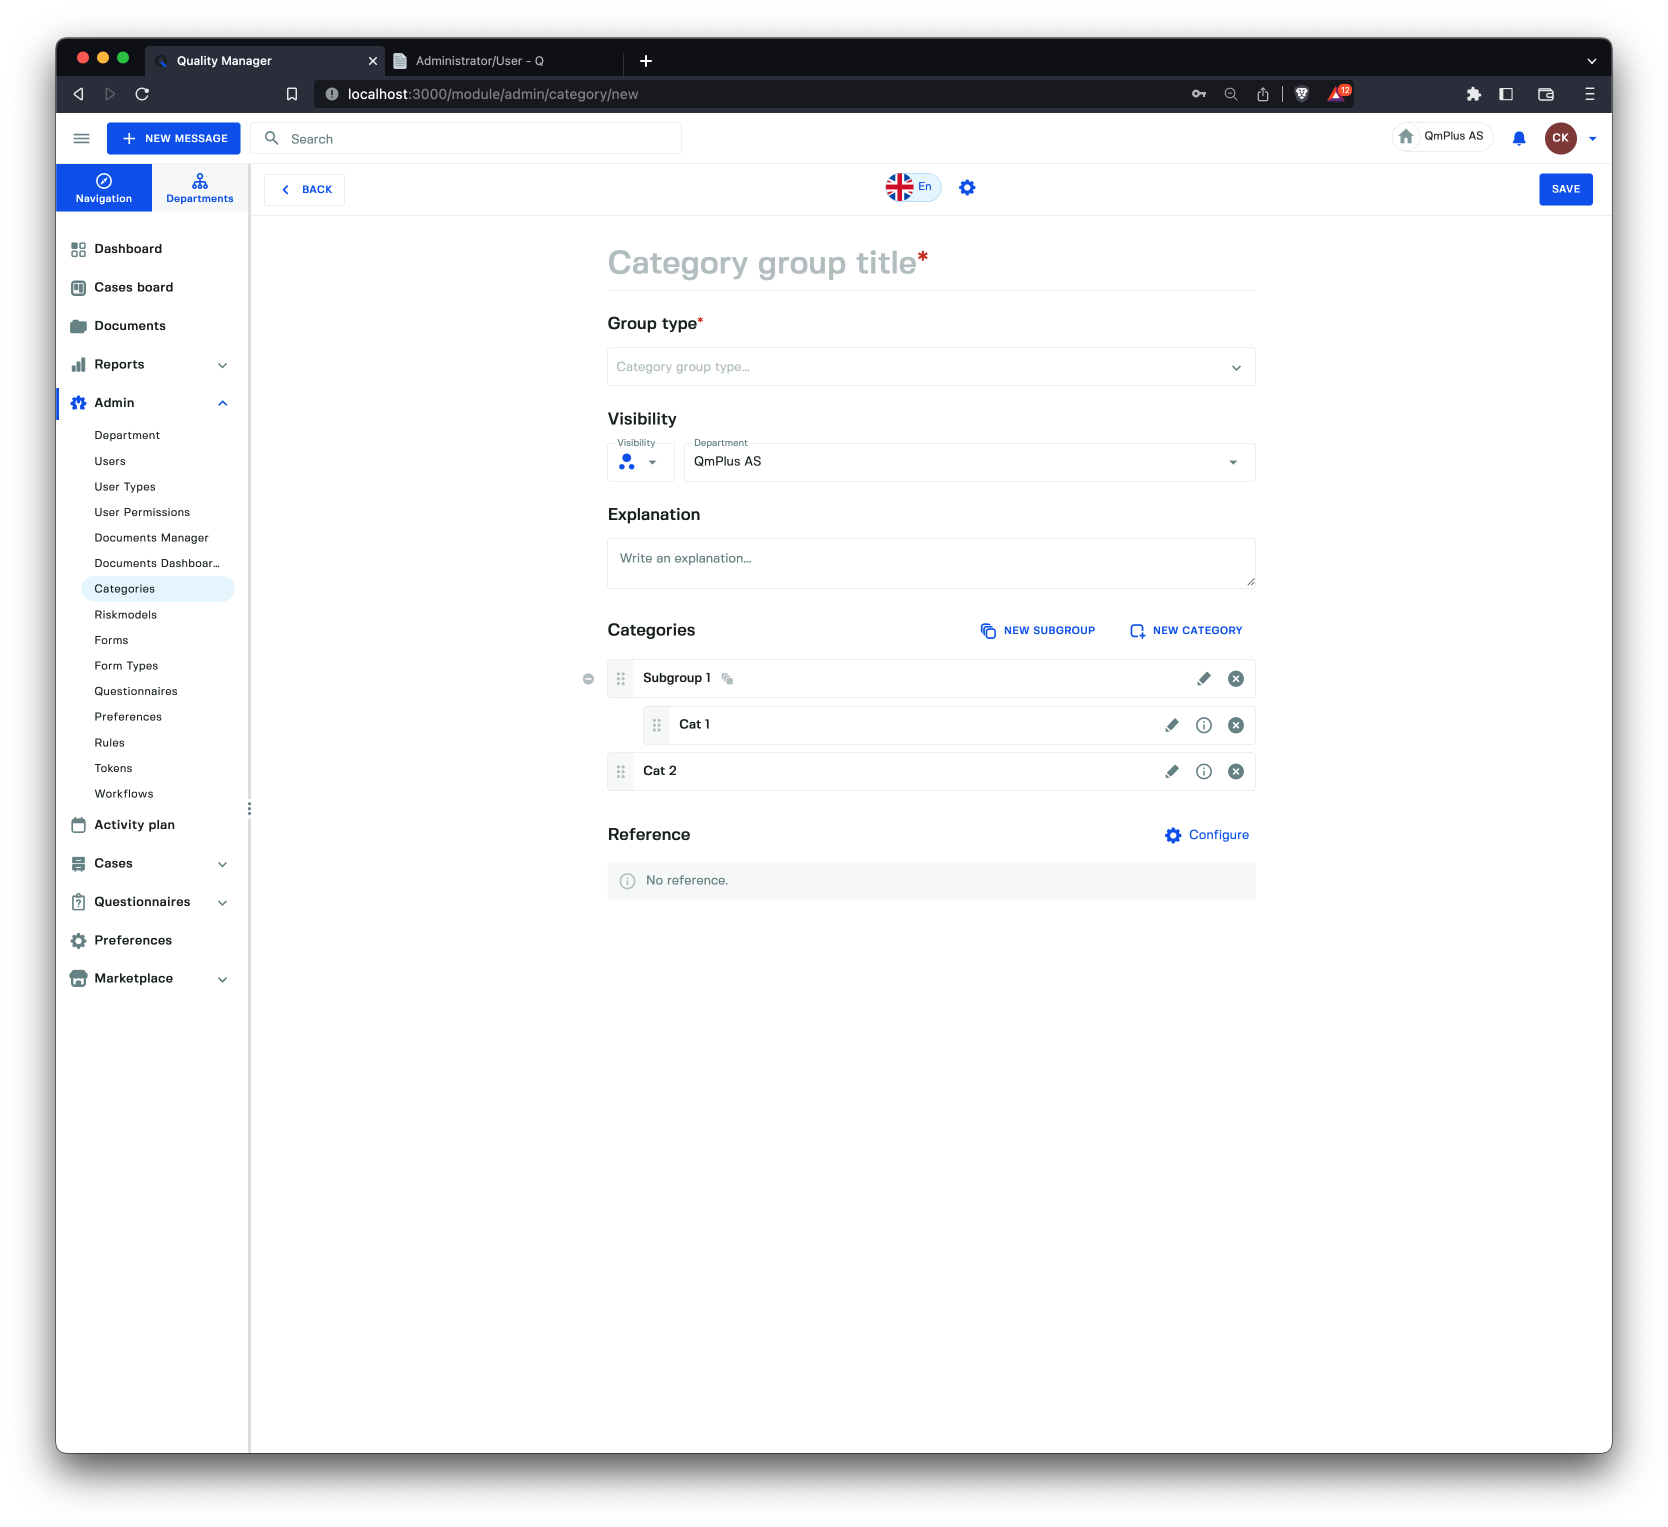
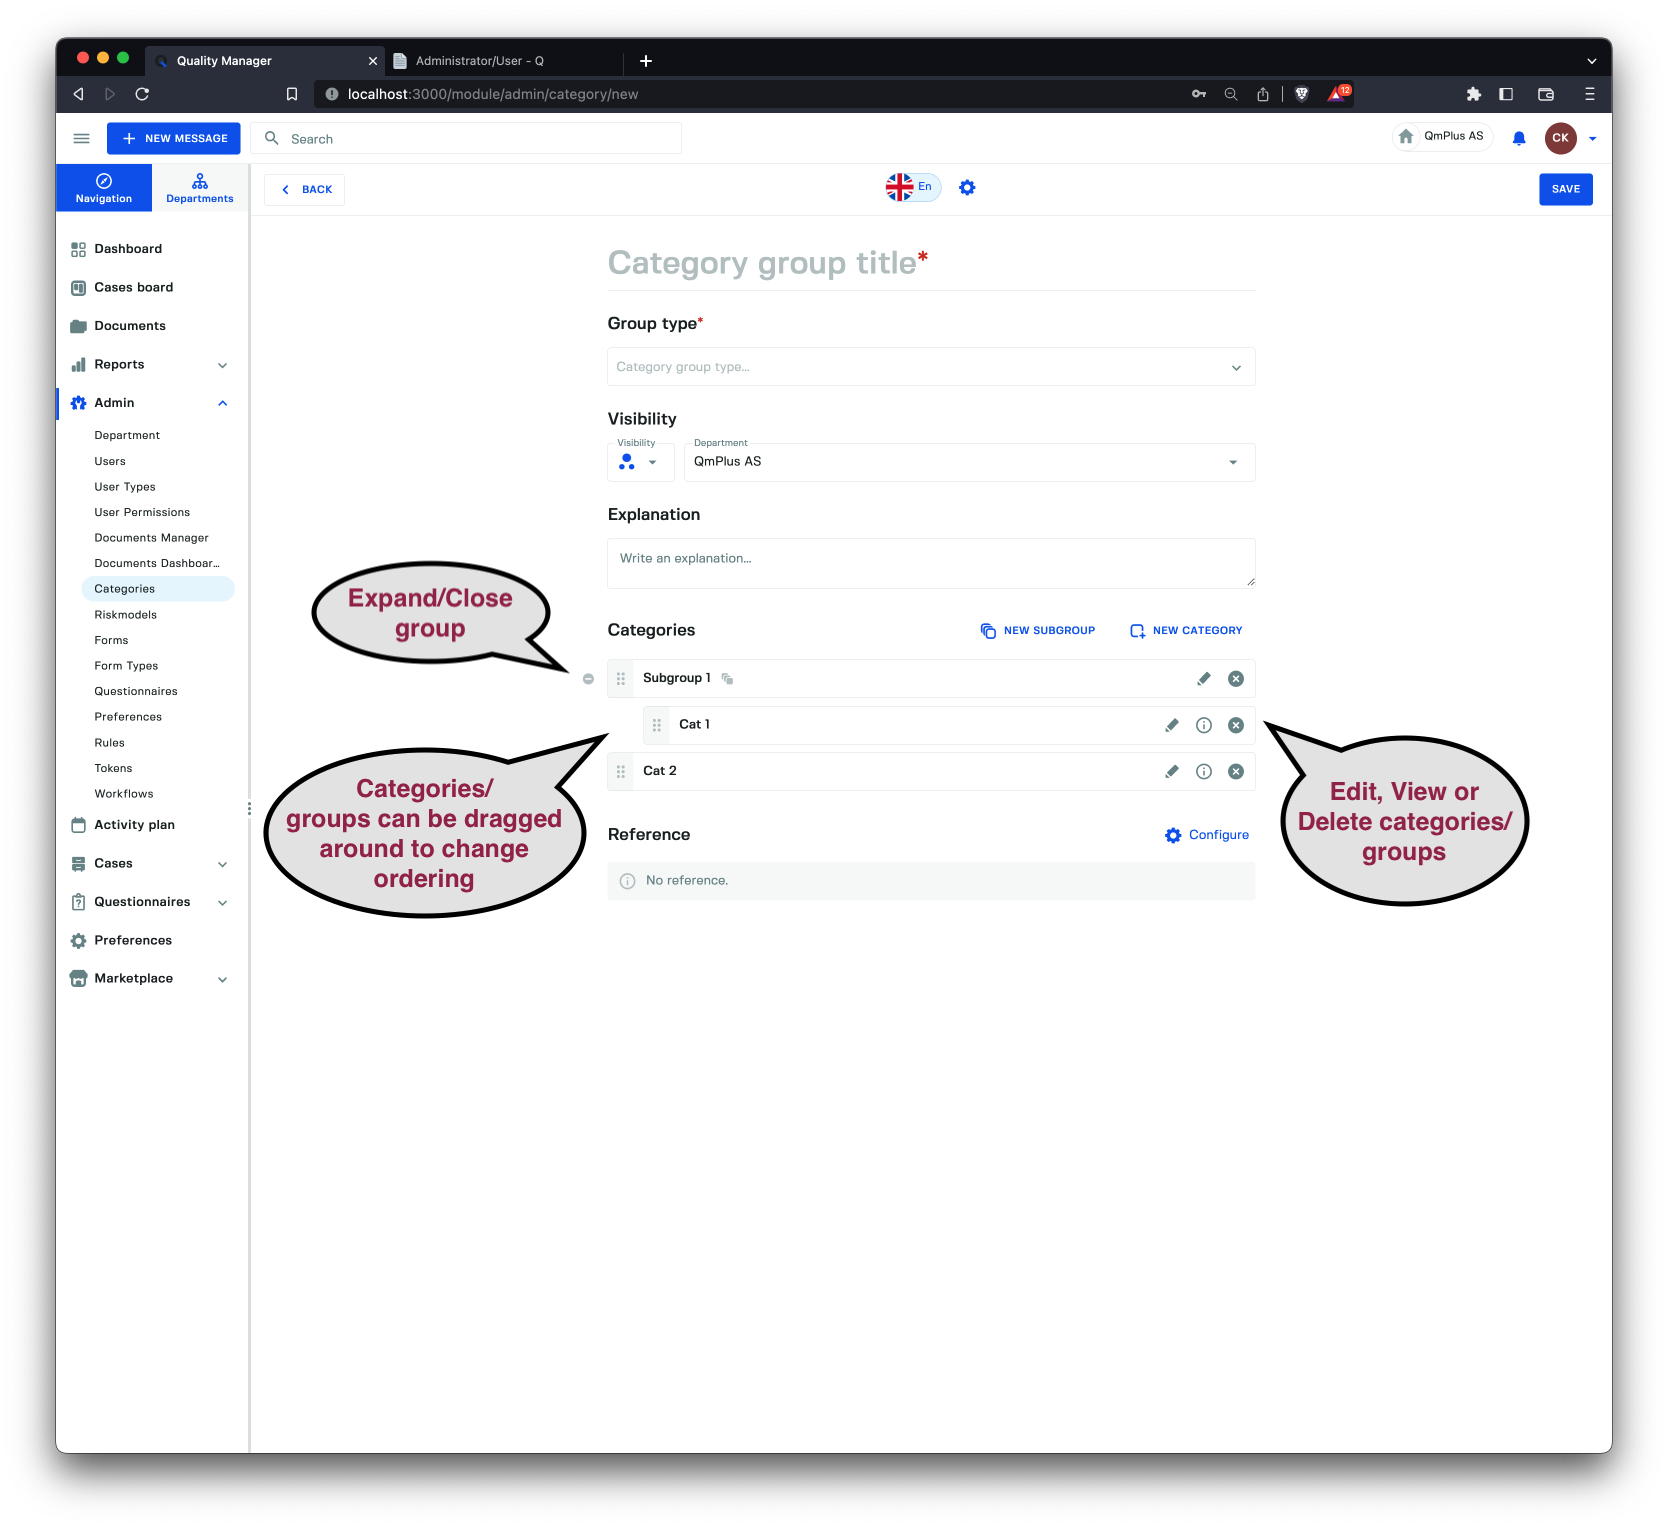
Working on category groups

Changed region(s): [[0.1559, 0.4617, 0.3741, 0.6156], [0.7482, 0.4617, 0.9353, 0.6156], [0.1871, 0.3694, 0.3429, 0.4617]]

diff --git a/content/en/docs/userguide/categories.md b/content/en/docs/userguide/categories.md
@@ -16,6 +16,12 @@ This section deals with managing category groups in the system.
 
 Clicking on the `Administrator/Categories` gives access to the list of category groups.
 
+A Category groups is made of a tree structure of `sub category groups` and `categories`. These elements can be re-organized in whatever order the user sees fit.
+
+> Category groups can be reused across multiple forms allowing you to generate statistics and reports across multiple types of form to compare.
+
+One of the important things to keep in mind is that all `Category Groups` are versioned. This lets you modify a category group without affecting existing form that contain that category group.
+
 ## Catgory Group List
 
 {{< figure src="/images/category_groups/category_group_10.png" caption="" width="1024">}}
@@ -24,22 +30,95 @@ The category group list view lets us view all the category groups in the system 
 
 {{< figure src="/images/category_groups/category_group_1.png" caption="" width="1024">}}
 
+To access the additional filters click on the filter button and select from the options in the sidebar.
+
 ## Create Category Group
 
-### Add Category Group
+{{< figure src="/images/category_groups/category_group_9.png" caption="" width="1024">}}
 
-### Add Category
+When creating we have the following available fields.
+
+| Field | Description |
+| --- | --- | 
+| `Category group title` | The name of the category group. It has multi-language support allowing you to provide translations for other languages you might support in the organization. |
+| `Group Type` | The type of category group we are creating. See the description below. |
+| `Visibility` | Specify how the category group is visible in the organization. For example setting this to `department` will make the category group only visible for the currently selected department.|
+| `Department` | Select the department that this category group will be registered on. Together with `visibility` this controls where the category group is visible |
+| `Categories` | This is the main aspect. It allows you to add `sub category groups` as well as `categories` building up a `tree-like` structure of nested information.
+| `Reference` | Lets you specify a `document` reference to display with the category group in forms. For example to link to a relevant law. This can also be done for sub category groups and categories added. |
+
+The `Group Type` lets you specify what kind of category group you are creating. The options are.
+
+| Group Type | Description |
+| --- | --- |
+| `Defining` | A special `Single Choice` category group that is used as a `defining` category group in a form. Allows the end user to select `only one` category as a response. |
+| `Single Choice` | Allows the user to select a single `cateogry` when entering data into a form. |
+| `Multi Choice` | Allows the user to select multiple `categories` when entering data into a form. |
+| `Action Choice` | Allows the user to select a single `category` for an action. This category groups is different from `Single Choice` only in that it's marked as an `action` group. |
+| `Number` | Allows the user to enter numeric values for all the categories in the group. This can be used to collect things like currency number or other data. |
+| `Risk` | Allows user to enter risk analaysis values for a given attached risk model. |
+
+> In the case of selecting the Group Type `Risk` we will see an additional field in the `Create Category Group` form that lets us select the `Risk Model` this category group will be based on.
+
+{{< figure src="/images/category_groups/category_group_11.png" caption="" width="1024">}}
+
+Click the `Set risk model` button to bring up the sidebar to select the associate risk model.
+
+{{< figure src="/images/category_groups/category_group_12.png" caption="" width="1024">}}
+
+From here you can select the risk model that you want to use with the category group.
+
+{{< figure src="/images/category_groups/category_group_5.png" caption="" width="1024">}}
+
+Finally you can select a `reference document` that you want to add to the category group as a reference.
+
+### Add and Edit Category Group
+
+{{< figure src="/images/category_groups/category_group_8.png" caption="" width="1024">}}
+
+To create a `Sub Category Group` we need to provide a name for the category group. One can add an optional description. 
+Finally you can add a reference document for the `Sub Category Group` that will be shown in forms when it renders the sub group.
+
+### Add and Edit Category
+
+{{< figure src="/images/category_groups/category_group_7.png" caption="" width="1024">}}
+
+To add a category to the category group we need to set the following fields.
+
+| Field | Required | Description |
+| --- | --- | --- |
+| `Category Name` | **X** | Set the name of the category we are adding (support multiple languages). |
+| `Description` | | Optional description for the category. |
+| `Visibility` | **X** | Specify the default visibility of the category (what department it is visible on). |
+| `Department` | **X** | The department from where the category is visible. |
+| `Priority` | | The priority to set on the form entry if the category is selected. |
+| `Cost` | | The cost set on the form entry if the category is selected. |
+| `Reference` | | The optional document reference to show when the category is rendered in a form. |
+
+Finally click the `Save Changes` button to save the new category to the category group.
+
+{{< figure src="/images/category_groups/category_group_3.png" caption="" width="1024">}}
+
+Just as when a new category is created an existing one can be edited.
 
 ### Organizing Structure
+
+{{< figure src="/images/category_groups/category_group_6.png" caption="" width="1024">}}
+
+When organizing the category group structure you can drag the item into the order you want.
+
+> Drag categories to the right under a category group to organize it under the sub group.
+
+We can also edit, view category detail or delete categories/sub category groups.
+
+{{< figure src="/images/category_groups/category_group_4.png" caption="" width="1024">}}
+
+This is the view of clicking on the `view category details`.
 
 ### References
 
 {{< figure src="/images/category_groups/category_group_2.png" caption="" width="1024">}}
-{{< figure src="/images/category_groups/category_group_3.png" caption="" width="1024">}}
-{{< figure src="/images/category_groups/category_group_4.png" caption="" width="1024">}}
-{{< figure src="/images/category_groups/category_group_5.png" caption="" width="1024">}}
-{{< figure src="/images/category_groups/category_group_6.png" caption="" width="1024">}}
-{{< figure src="/images/category_groups/category_group_7.png" caption="" width="1024">}}
-{{< figure src="/images/category_groups/category_group_8.png" caption="" width="1024">}}
-{{< figure src="/images/category_groups/category_group_9.png" caption="" width="1024">}}
+
+References let you attach links to internal documents that contain relevant information about a given category group, category or sub category group. 
+For example links to laws or instructions associated with a given entry.
   
